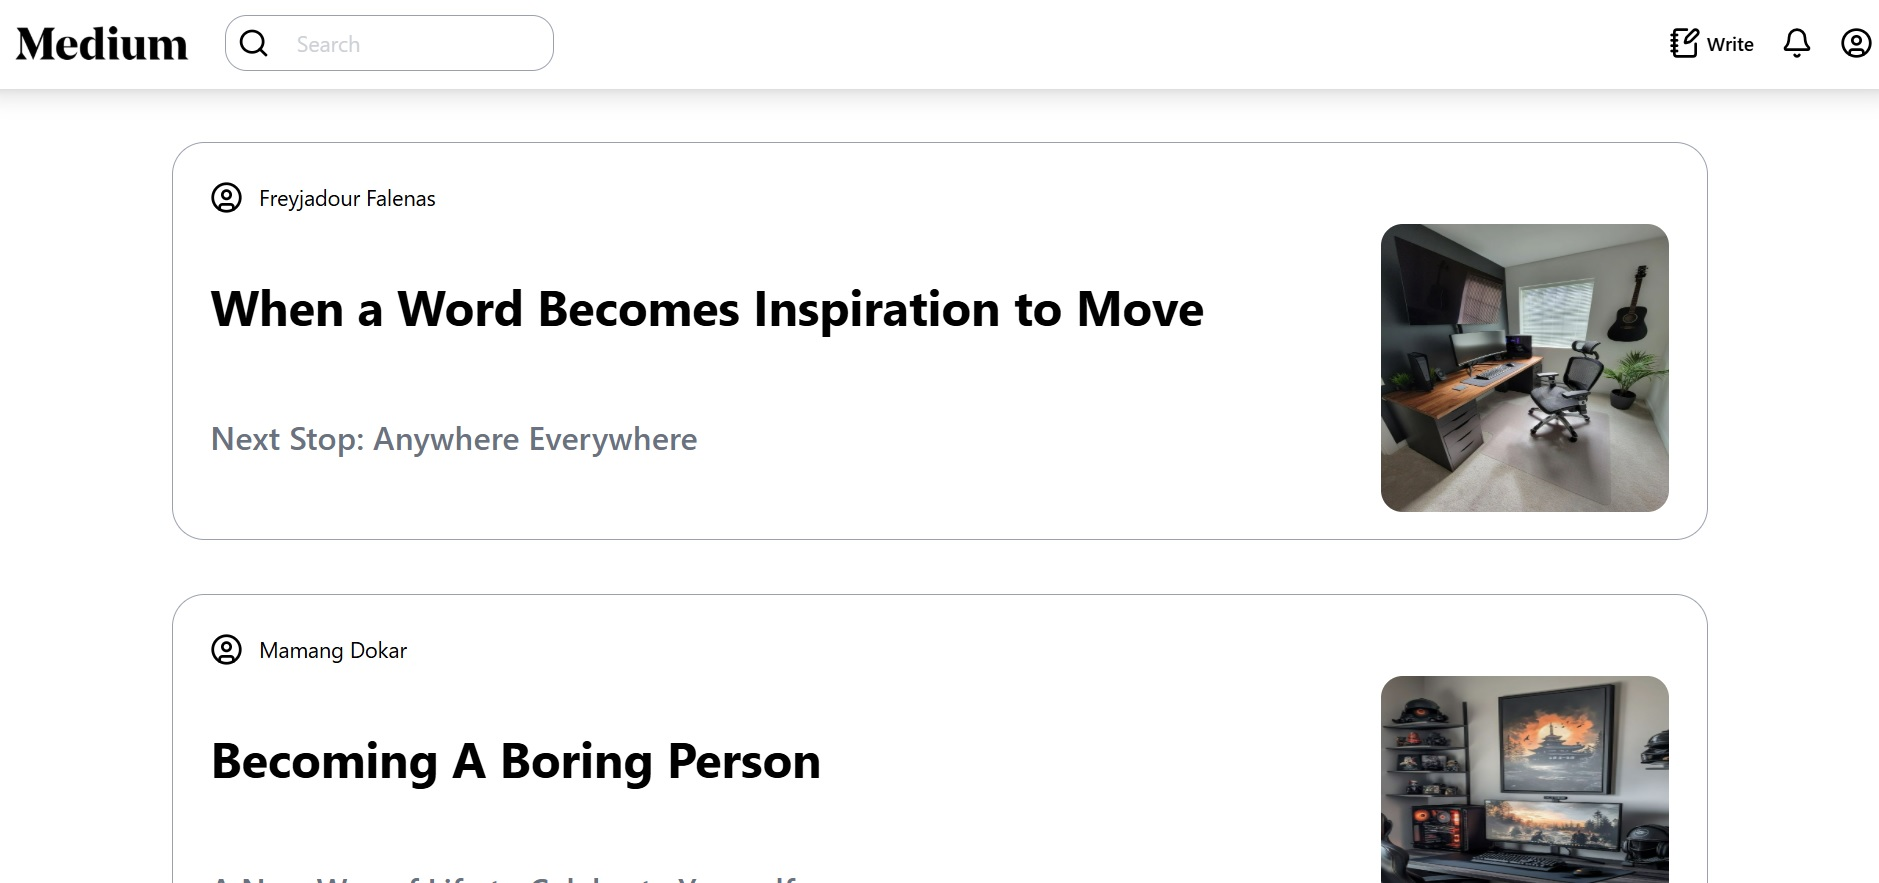
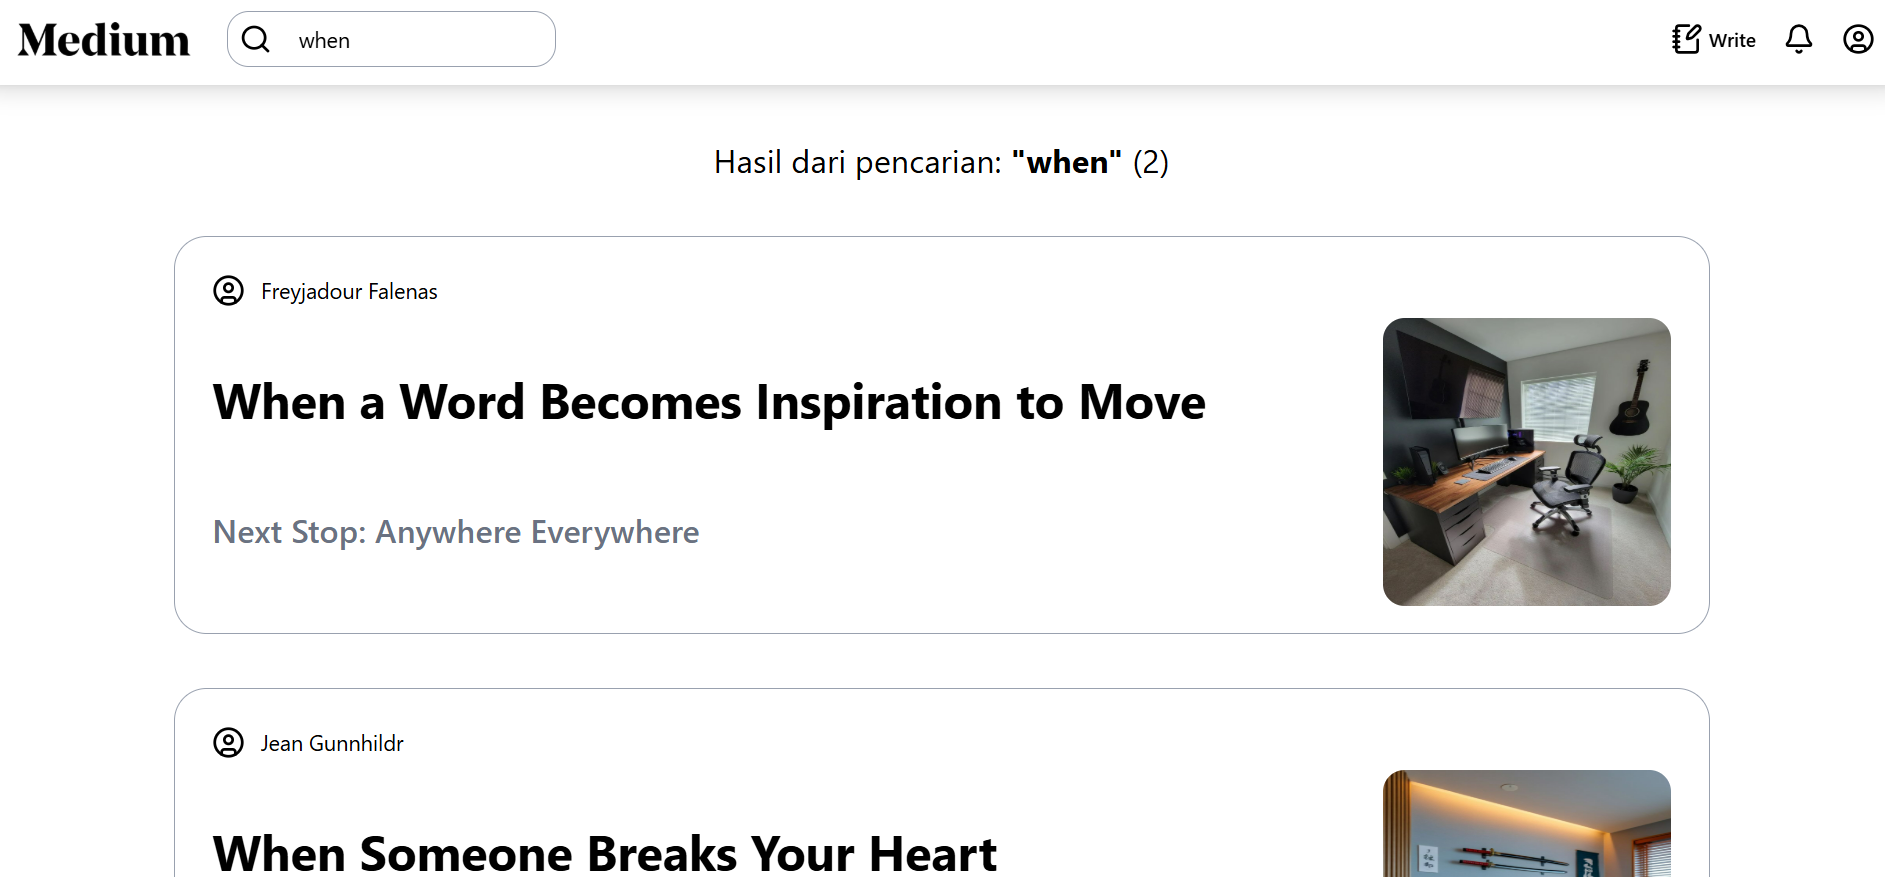
feat: add functional search/filter feature

diff --git a/src/pages/HomePage.jsx b/src/pages/HomePage.jsx
@@ -1,52 +1,49 @@
 import React from 'react'
 import NavBar from '../components/NavBar'
-import { useNavigate } from 'react-router-dom'
+import { useSearchParams } from 'react-router-dom'
+import ArticleItems from '../components/ArticleItems'
 
 function HomePage() {
-  let navigate = useNavigate()
+  const [searchParam,] = useSearchParams()
+  const res = searchParam.get('result')
+  const users = [
+    { 
+        id: 1,
+        uname: '@bocilFF',
+        img: '/pic1.jpg',
+        slug: 'anywhere-everywhere',
+        name: 'Freyjadour Falenas',
+        titlePage: 'When a Word Becomes Inspiration to Move',
+        subheading: 'Next Stop: Anywhere Everywhere',
+    }, {
+        id: 2,
+        uname: '@MamangGanteng',
+        name: 'Mamang Dokar',
+        slug: "a-new-way-of-life",
+        img: '/pic2.jpg',
+        titlePage: 'Becoming A Boring Person',
+        subheading: 'A New Way of Life to Celebrate Yourself',
+    }, {
+        id: 3,
+        uname: '@LetTheWindLead',
+        name: 'Jean Gunnhildr',
+        slug: "become-a-whole-again",
+        img: '/pic3.jpg',
+        titlePage: 'When Someone Breaks Your Heart',
+        subheading: 'Pick Up Your Pieces to Become A Whole Again',
+    }
+  ]
+
+  const filteredUsers = users.filter((item) => item.titlePage.toLowerCase().includes(res.toLowerCase()))
+
   return (
     <div className='flex flex-col justify-center items-center gap-10 mb-10'>
         <NavBar/>
         <div className='h-[10svh]'></div>
-        <article className='flex flex-col border-1 border-gray-400 rounded-3xl px-5 py-5 w-[80svw] hover:cursor-pointer' onClick={() => {navigate('/article/@bocilFF/inspiration-to-move')}}>
-            <div className='flex flex-row gap-3 items-center justify-start px-2 py-2'>
-                <img src="/circle-user.svg" alt="user-profile-photo"/>
-                <span>Freyjadour Falenas</span>
-            </div>
-            <div className='flex flex-row px-2 justify-between'>
-                <div className='flex-1 flex flex-col gap-5 justify-evenly'>
-                    <span className='text-4xl font-bold'>When a Word Becomes Inspiration to Move</span>
-                    <span className='text-gray-500 text-2xl font-semibold'>Next Stop: Anywhere Everywhere</span>
-                </div>
-                <img src="/pic1.jpg" alt="article-picture" className='size-[15svw] rounded-2xl'/>
-            </div>
-        </article>
-        <article className='flex flex-col border-1 border-gray-400 rounded-3xl px-5 py-5 w-[80svw] hover:cursor-pointer' onClick={() => {navigate('/article/@MamangGanteng/becoming-a-boring-person')}}>
-            <div className='flex flex-row gap-3 items-center justify-start px-2 py-2'>
-                <img src="/circle-user.svg" alt="user-profile-photo"/>
-                <span>Mamang Dokar</span>
-            </div>
-            <div className='flex flex-row px-2 justify-between'>
-                <div className='flex-1 flex flex-col gap-5 justify-evenly'>
-                    <span className='text-4xl font-bold'>Becoming A Boring Person</span>
-                    <span className='text-gray-500 text-2xl font-semibold'>A New Way of Life to Celebrate Yourself</span>
-                </div>
-                <img src="/pic2.jpg" alt="article-picture" className='size-[15svw] rounded-2xl'/>
-            </div>
-        </article>
-        <article className='flex flex-col border-1 border-gray-400 rounded-3xl px-5 py-5 w-[80svw] hover:cursor-pointer' onClick={() => {navigate('/article/@LetTheWindLead/When-Someone-Breaks-Your-Heart')}}>
-            <div className='flex flex-row gap-3 items-center justify-start px-2 py-2'>
-                <img src="/circle-user.svg" alt="user-profile-photo"/>
-                <span>Jean Gunnhildr</span>
-            </div>
-            <div className='flex flex-row px-2 justify-between'>
-                <div className='flex-1 flex flex-col gap-5 justify-evenly'>
-                    <span className='text-4xl font-bold'>When Someone Breaks Your Heart</span>
-                    <span className='text-gray-500 text-2xl font-semibold'>Pick Up Your Pieces to Become A Whole Again</span>
-                </div>
-                <img src="/pic3.jpg" alt="article-picture" className='size-[15svw] rounded-2xl'/>
-            </div>
-        </article>
+        <section>{res && <div className='text-2xl'>Hasil dari pencarian: <span className='font-bold'>"{res}"</span> ({filteredUsers.length})</div>}</section>
+        {filteredUsers.map((item, index) => (
+            <ArticleItems key={`article-${index}`} name={item.name} title={item.titlePage} subheading={item.subheading} uname={item.uname} slug={item.slug} img={item.img}/>
+        ))}
     </div>
   )
 }

diff --git a/src/components/NavBar.jsx b/src/components/NavBar.jsx
@@ -1,15 +1,27 @@
 import React from 'react'
+import { useSearchParams } from 'react-router-dom'
+import { useNavigate } from 'react-router-dom'
+import { useForm } from 'react-hook-form'
 
 function NavBar() {
+  const [, setSearchParam] = useSearchParams()
+  const {register, handleSubmit} = useForm()
+  let navigate = useNavigate()
+  
+  function submitData(value) {
+    navigate('/')
+    setSearchParam(value)
+  }
+
   return (
     <nav className='h-[10svh] w-svw bg-white flex flex-row justify-between items-center px-5 py-2 fixed top-0 shadow-lg'>
         <div className='flex flex-row gap-5 items-center justify-start w-fit h-fit'>
             <img src="/medium.png" alt="logo-medium" className='w-[10svw]'/>
-            <form id='search' className='box-border px-2 py-2 border-1 border-gray-400 text-gray-400 flex items-center gap-5 rounded-2xl'>
+            <form id='search' className='box-border px-2 py-2 border-1 border-gray-400 flex items-center gap-5 rounded-2xl' onSubmit={handleSubmit(submitData)}>
                 <button className='border-0 bg-transparent'>
                     <img src="/search.svg" alt="search-icon"/>
                 </button>
-                <input type='text' name='search' placeholder='Search' className='outline-0 border-0'/>
+                <input type='text' {...register('result')} placeholder='Search' className='outline-0 border-0  text-black'/>
             </form>
         </div>
         <div className='flex flex-row gap-5 items-center'>

diff --git a/src/components/ArticleItems.jsx b/src/components/ArticleItems.jsx
@@ -1,0 +1,23 @@
+import React from 'react'
+import { useNavigate } from 'react-router-dom'
+
+function ArticleItems({name, title, subheading, uname, slug, img, ...props}) {
+  let navigate = useNavigate()
+  return (
+    <article className='flex flex-col border-1 border-gray-400 rounded-3xl px-5 py-5 w-[80svw] hover:cursor-pointer' onClick={() => {navigate(`/article/${uname}/${slug}`)}} {...props}>
+            <div className='flex flex-row gap-3 items-center justify-start px-2 py-2'>
+                <img src="/circle-user.svg" alt="user-profile-photo"/>
+                <span>{name}</span>
+            </div>
+            <div className='flex flex-row px-2 justify-between'>
+                <div className='flex-1 flex flex-col gap-5 justify-evenly'>
+                    <span className='text-4xl font-bold'>{title}</span>
+                    <span className='text-gray-500 text-2xl font-semibold'>{subheading}</span>
+                </div>
+                <img src={img} alt="article-picture" className='size-[15svw] rounded-2xl'/>
+            </div>
+    </article>
+  )
+}
+
+export default ArticleItems

diff --git a/src/pages/ArticlePage.jsx b/src/pages/ArticlePage.jsx
@@ -38,7 +38,7 @@ function ArticlePage() {
         uname: '@LetTheWindLead',
         name: 'Jean Gunnhildr',
         img: '/pic3.jpg',
-        titlePage: 'When a Word Becomes Inspiration to Move',
+        titlePage: 'When Someone Breaks Your Heart',
         subheading: 'Pick Up Your Pieces to Become A Whole Again',
         paragraph: [
             'A broken heart feels like a shattering of the self, each fragment carrying a memory, a hope, or a piece of who you thought you were. When someone breaks your heart, the pain can be all-consuming, leaving you to wonder if you`ll ever feel whole again. Yet, within this ache lies an opportunity—a chance to gather the scattered pieces of your spirit and rebuild a version of yourself that is stronger, wiser, and more resilient. The journey begins with acknowledging the hurt, not as a wound to hide, but as a map that guides you toward healing.',
